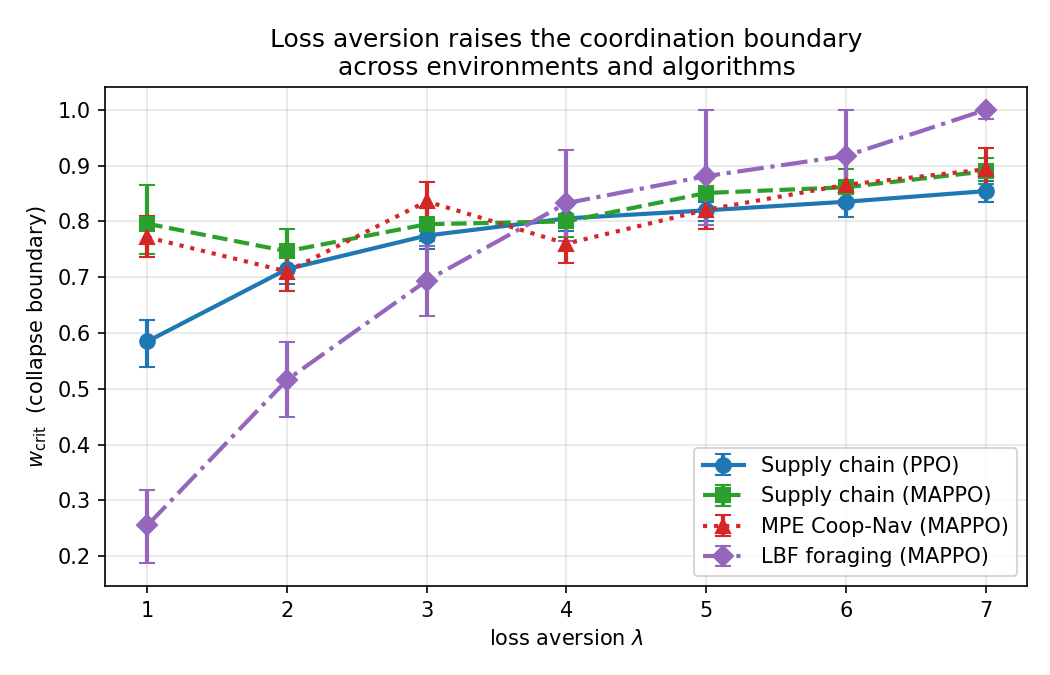
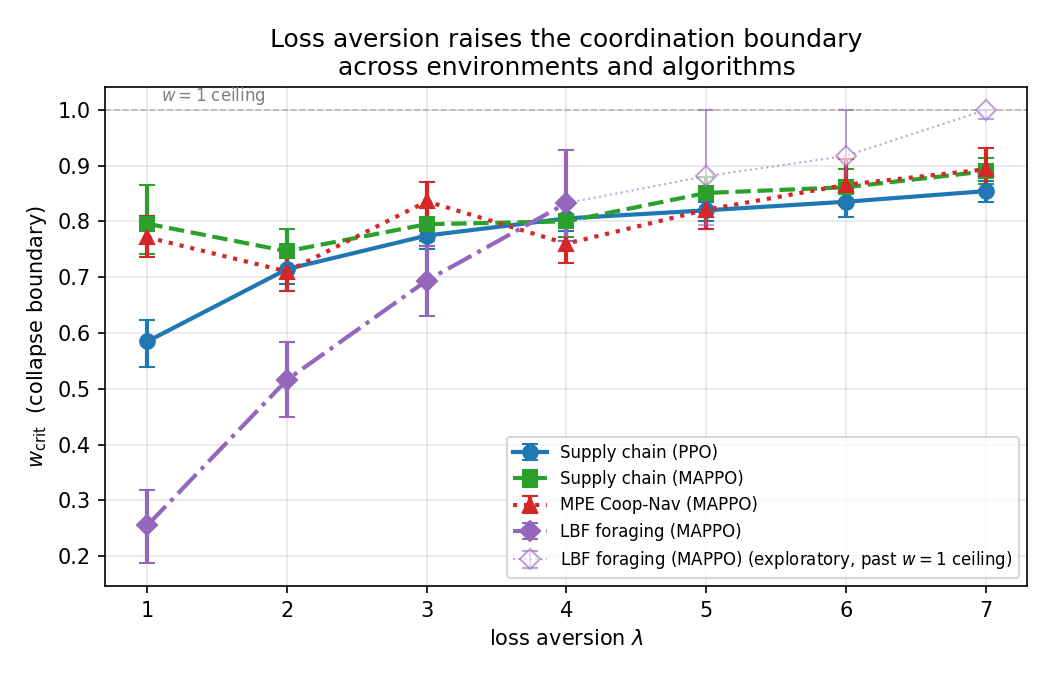
Update standalone generalisation figures and scripts
Refreshed the master generalisation plots and generation scripts
outside the AuthorKit to reflect the latest dataset.

diff --git a/experiments/make_generalization_figure.py b/experiments/make_generalization_figure.py
@@ -121,6 +121,9 @@ def collect(data):
     return np.array(lams), np.array(pts), np.array([los, his])
 
 
+LBF_EXPLORATORY_LAM_MIN = 5  # LBF points at lambda >= this extrapolate past the w=1 ceiling
+
+
 def main():
     os.makedirs(os.path.dirname(OUT), exist_ok=True)
     fig, ax = plt.subplots(figsize=(7, 4.5))
@@ -134,14 +137,39 @@ def main():
         if not data:
             continue
         lam, pts, err = collect(data)
-        ax.errorbar(lam, pts, yerr=err, fmt=fmt, color=color, capsize=4, lw=2,
-                    markersize=7, label=label)
+        is_lbf = label.startswith("LBF")
+        explor = is_lbf & (lam >= LBF_EXPLORATORY_LAM_MIN)
+        if is_lbf and explor.any():
+            # solid segment: measured points only (in-grid)
+            meas = ~explor
+            if meas.sum() >= 1:
+                ax.errorbar(lam[meas], pts[meas], yerr=err[:, meas], fmt=fmt, color=color,
+                            capsize=4, lw=2, markersize=7, label=label)
+            # hollow/dotted segment: exploratory, ceiling-extrapolated points
+            # (drawn with open markers and a lighter dotted line so they read as
+            # distinct from measured data, not as a continuation of it)
+            ax.errorbar(lam[explor], pts[explor], yerr=err[:, explor], fmt="D:",
+                        color=color, capsize=4, lw=1, markersize=7,
+                        markerfacecolor="white", markeredgecolor=color, alpha=0.6,
+                        label=f"{label} (exploratory, past $w{{=}}1$ ceiling)")
+            # connect last measured point to first exploratory point with a dotted bridge
+            if meas.sum() >= 1 and explor.sum() >= 1:
+                i_last_meas = np.where(meas)[0][-1]
+                i_first_explor = np.where(explor)[0][0]
+                ax.plot([lam[i_last_meas], lam[i_first_explor]],
+                        [pts[i_last_meas], pts[i_first_explor]],
+                        ":", color=color, lw=1, alpha=0.6)
+        else:
+            ax.errorbar(lam, pts, yerr=err, fmt=fmt, color=color, capsize=4, lw=2,
+                        markersize=7, label=label)
+    ax.axhline(1.0, color="gray", ls="--", lw=0.8, alpha=0.5)
+    ax.text(1.1, 1.005, "$w=1$ ceiling", fontsize=8, color="gray", va="bottom")
     ax.set_xlabel(r"loss aversion $\lambda$")
     ax.set_ylabel(r"$w_{\mathrm{crit}}$  (collapse boundary)")
     ax.set_title("Loss aversion raises the coordination boundary\nacross environments and algorithms")
     ax.set_xticks(range(1, 8))
     ax.grid(alpha=0.3)
-    ax.legend(frameon=True)
+    ax.legend(frameon=True, fontsize=8)
     fig.tight_layout()
     fig.savefig(OUT, dpi=150)
     print("saved", OUT)
